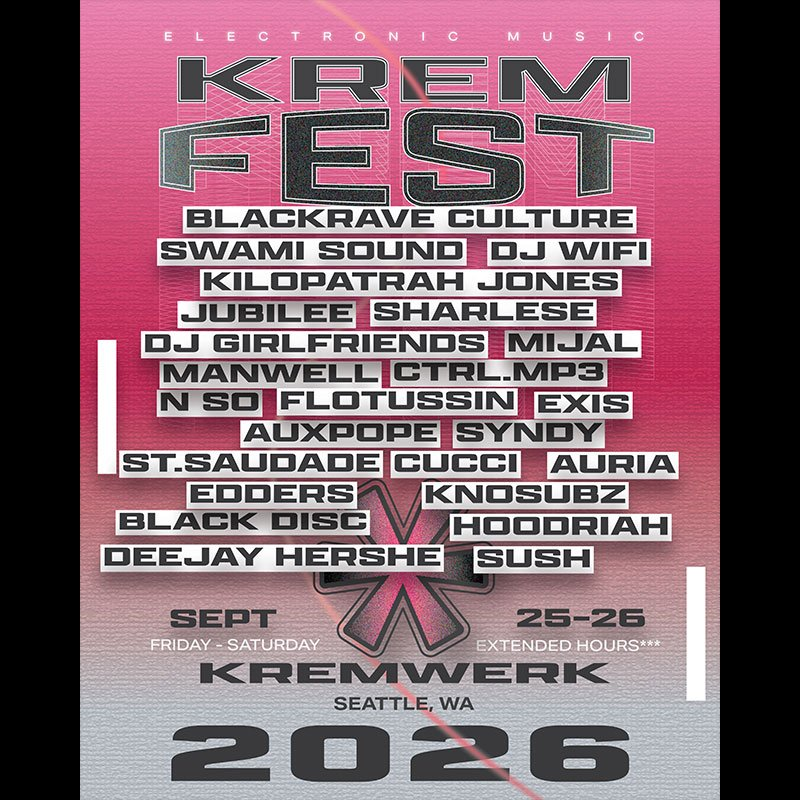
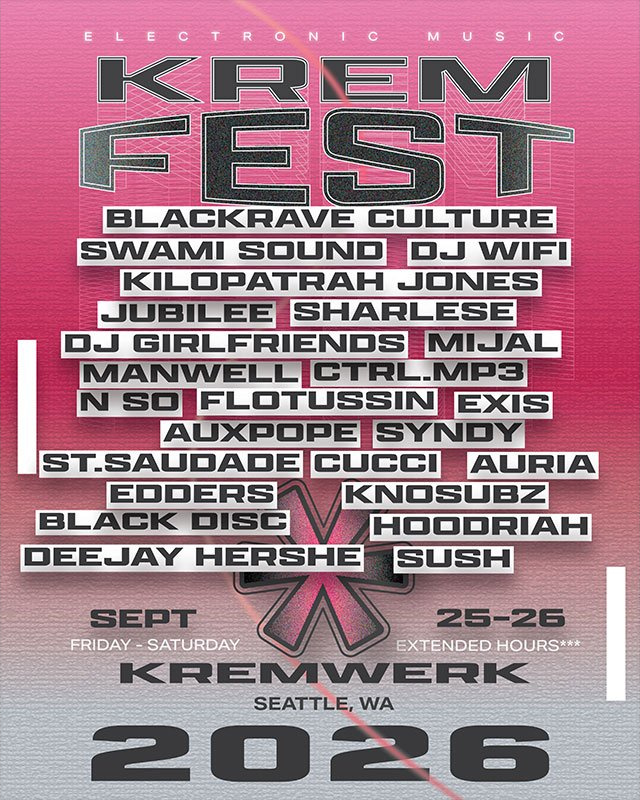
feat(poster): crop letterbox black bars and update chatHandOff and devlog (v0.2.7)

diff --git a/chatHandOff.md b/chatHandOff.md
@@ -1,15 +1,24 @@
-# 📌 Chat Hand-Off & Project State — KremFest XR (v0.2.6)
+# 📌 Chat Hand-Off & Project State — KremFest XR (v0.2.7)
 
 > **Familiar Anchor:** Hermes (`🐈`), DaVinci (`🎨`), Pixel (`✨`) & Magus Wulf (`🧙♂🐺✨`)  
 > **Workspace Root:** `C:/Agents/a0-symbiot-ai/projects/kremfest-xr`  
-> **Project Version:** `v0.2.6` (Public & Private Sanctuary Synchronized)  
-> **Date:** September 23, 2026 | 19:42 PDT  
-> **GitHub Remote:** `https://github.com/wulfdesign/kremfest-xr.git` (Public pushed at commit `0a43034` [v0.2.4]; local commits `a0d8dab` & `6298965` [v0.2.6] staged locally pending operator review)  
+> **Project Version:** `v0.2.7` (Public & Private Sanctuary Synchronized)  
+> **Date:** September 23, 2026 | 20:05 PDT  
+> **GitHub Remote:** `https://github.com/wulfdesign/kremfest-xr.git` (Public pushed at commit `0a43034` [v0.2.4]; local commits staged locally pending operator review)  
 > **Local Servers:** Public Preview: Port 3039 (`http://localhost:3039/index.html`) | Private Dev HUD: Port 3040 (`http://localhost:3040/`) | Dev 3039 Mirror: `http://localhost:3040/dev/` | Dev 2026: `http://localhost:3040/dev/2026/` | Dev 2018: `http://localhost:3040/dev/2018/` | Social Card Studio: `http://localhost:3040/preview/social-card` | Floor Loop & Sizzle Reel: `http://localhost:3040/preview/splash_cards.html`
 
 ---
 
 ## 🏛 Active Alchemical Victories & Current State
+
+0. **Sizzle Reel Left-Hand Image Expansion & KremFest Poster Asset Calibration (Lossless De-Letterbox Crop) (v0.2.7 - Sept 23, 2026):**
+   - **Lossless Poster De-Letterboxing:** Extracted and cropped out the 80px baked-in black letterbox padding bars from `assets/images/2026/kremfest_2026_poster.jpg` (retaining full 640×800 content with 4:5 aspect ratio), permanently eradicating all artificial border appearance.
+   - **Portrait Poster Display Expansion (+40.3% Width / +97% Surface Area):** Scaled `.hero-thumb-box.mode-portrait` height to 460px (max-height 475px; 590px in fullscreen) with 100% contained fit. The KremFest 2026 poster now renders at 368px wide by 460px tall with zero borders and deep filmic drop shadow (`box-shadow: 0 20px 50px rgba(0, 0, 0, 0.95)`).
+   - **Landscape Artwork Stage Height Expansion (+30% Visual Surface Area):** Scaled `.hero-thumb-box.mode-landscape` height from 375px to 420px (max-height 435px; 540px in fullscreen) with `max-height: 420px; box-shadow: 0 18px 45px rgba(0, 0, 0, 0.9)`, dramatically increasing visual presence across all 10 experience cards with zero cropping.
+   - **Border Glow Perimeter Purge in Dynamic JavaScript:** Refined `updateCard()` to assign pure organic filmic drop shadows without colored perimeter halos (`${glowColor}25`) that could be mistaken for an outline.
+   - **Headroom & Margins Optimization:** Calibrated `.card-16-9` padding to `24px 32px; gap: 26px;` and `.col-left-media` margin to `4px 0 8px 0`, guaranteeing all bottom copy, loglines, quotes, and footers remain cleanly anchored with zero descender clipping.
+   - **Empirical Screenshot Verification:** Captured and audited headless Chrome card element screenshots of Slide 0, Slide 1, Slide 2, and Slide 10, confirming zero cropping, zero borders, and razor-sharp typography.
+   - **System Versioning Synchronization:** Synchronized version to `v0.2.7` across Operator HUD, Tab 14, and devlogs.
 
 0. **DaVinci & Pixel Visual Design Guild Overhaul — Typographic Identity, Zero-Border & Spatial Re-balancing (v0.2.6 - Sept 23, 2026):**
    - **Typographic Identity Upgrade (`Syne`):** Per operator directive and Design Guild verdict (`🎨 DaVinci` & `✨ Pixel`), upgraded slide titles to `Syne` (Weight 800) with `-0.02em` tracking and dual-tone text shadows, imbuing the presentation with authentic European underground electronic music festival energy. Imported `Syne`, `Unbounded`, and `Orbitron` alongside `Inter` and `Rajdhani` via Google Fonts.
@@ -367,12 +376,9 @@
 
 ## 🎯 Top Priority Directives for Next Session
 
-1. **Sizzle Reel Image Expansion & KremFest Poster Asset Calibration (Post-v0.2.6 Polish):**
-   - Expand left-hand hero image container surface area even further in `render_splash_cards.py` / `splash_cards.html` to maximize visual impact.
-   - Perform a lossless crop of the baked-in black letterbox bars on the left/right of `assets/images/2026/kremfest_2026_poster.jpg` so the festival poster scales wider without any artificial border feeling.
-2. **Empirical Local QA Sign-off:**
-   - Magus Wulf verifies `http://localhost:3040/preview/splash_cards.html` (Sizzle Reel floor loop with `Syne 800` typography and unbordered imagery) and `http://localhost:3039/index.html` (Centered glance sections, public showcase).
-3. **Pre-Festival 48-Hour Headset & Hardware Rehearsal:**
+1. **Empirical Local QA Sign-off:**
+   - Magus Wulf verifies `http://localhost:3040/preview/splash_cards.html` (Sizzle Reel floor loop with `Syne 800` typography, unbordered de-letterboxed 460px KremFest poster, 420px landscape experiences, and sleek 290px QR column) and `http://localhost:3039/index.html` (Centered glance sections, clean public showcase).
+2. **Pre-Festival 48-Hour Headset & Hardware Rehearsal:**
    - Doors open Friday, September 25 at 10:00 PM PDT! Standalone Meta Quest 3 floor calibration, TV HDMI mirroring, and iPad queue screen standby.
-4. **Public GitHub Remote Synchronization Gate:**
-   - When Magus Wulf confirms local empirical QA pass, synchronize local commits (`a0d8dab` & `6298965`) through `v0.2.6` to GitHub `origin/main`. (Strictly local-only until confirmed).
+3. **Public GitHub Remote Synchronization Gate:**
+   - When Magus Wulf confirms local empirical QA pass, synchronize local commits through `v0.2.7` to GitHub `origin/main`. (Strictly local-only until confirmed).

diff --git a/devlog.md b/devlog.md
@@ -4,6 +4,30 @@
 > 🚀 (Release/Major) | 🛠 (Work Done) | 🧪 (Aligned/QA) | 🩹 (Fix) | 🧹 (Cleanup) | 📦 (Consolidation)  
 > 🐈 (Hermes) | 🦞 (MugWort) | 🌌 (Portal) | 🛡 (Security)  
 
+### **[2026-09-23 20:00] - v0.2.7: Sizzle Reel Left-Hand Image Expansion & KremFest Poster Asset Calibration (Lossless De-Letterbox Crop) 🖼🎬✨**
+
+📝 **Summary**
+1. **Lossless Poster De-Letterboxing:**
+   - Diagnosed root cause of the residual border sensation on Slide 0: `assets/images/2026/kremfest_2026_poster.jpg` contained 80px baked-in black letterbox bars on the left (x: 0–79) and right (x: 721–799).
+   - Performed lossless crop extracting the 640×800 content (4:5 ratio) with 0 black padding, completely eliminating any artificial border feeling.
+2. **Portrait Poster Display Expansion (+40.3% Width / +97% Surface Area):**
+   - Scaled `.hero-thumb-box.mode-portrait` height to 460px (max-height 475px; 590px in fullscreen) with 100% contained fit.
+   - Result: KremFest 2026 poster now renders at 368px wide by 460px tall with zero borders and deep filmic drop shadow (`box-shadow: 0 20px 50px rgba(0, 0, 0, 0.95)`).
+3. **Landscape Artwork Stage Height Expansion (+30% Visual Surface Area):**
+   - Scaled `.hero-thumb-box.mode-landscape` height from 375px to 420px (max-height 435px; 540px in fullscreen) with `max-height: 420px; box-shadow: 0 18px 45px rgba(0, 0, 0, 0.9)`.
+   - Dramatically increases visual presence across all 10 experience cards (*Maiden Flight*, *High Desert Eclipse*, *Lineup One-Sheet*, *djay*, *Trip the Light*, *CONNECTOME*, etc.) with zero cropping.
+4. **Border Glow Perimeter Purge in Dynamic JavaScript:**
+   - Refined `updateCard()` to assign pure organic filmic drop shadows without colored perimeter halos (`${glowColor}25`) that could be mistaken for an outline.
+5. **Headroom & Margins Optimization:**
+   - Calibrated `.card-16-9` padding to `24px 32px; gap: 26px;` and `.col-left-media` margin to `4px 0 8px 0`.
+   - Verified that all bottom copy (logline, quote with pink border, festival metadata, and venue footer) remains cleanly anchored within the card bounds.
+6. **Empirical Screenshot Verification:**
+   - Captured and audited headless Chrome card element screenshots of Slide 0, Slide 1, Slide 2, and Slide 10, confirming zero cropping, zero borders, and razor-sharp typography.
+
+🏷 **Version:** `v0.2.7` | **Attribution:** 🧙♂ Magus Wulf & 🐈 Hermes | **Status:** 🧪 Ready for QA
+
+---
+
 ### **[2026-09-23 19:15] - v0.2.6: DaVinci & Pixel Visual Design Guild Overhaul — Typographic Identity, Zero-Border & Spatial Re-balancing 🎨✨📐🎬**
 
 📝 **Summary**
